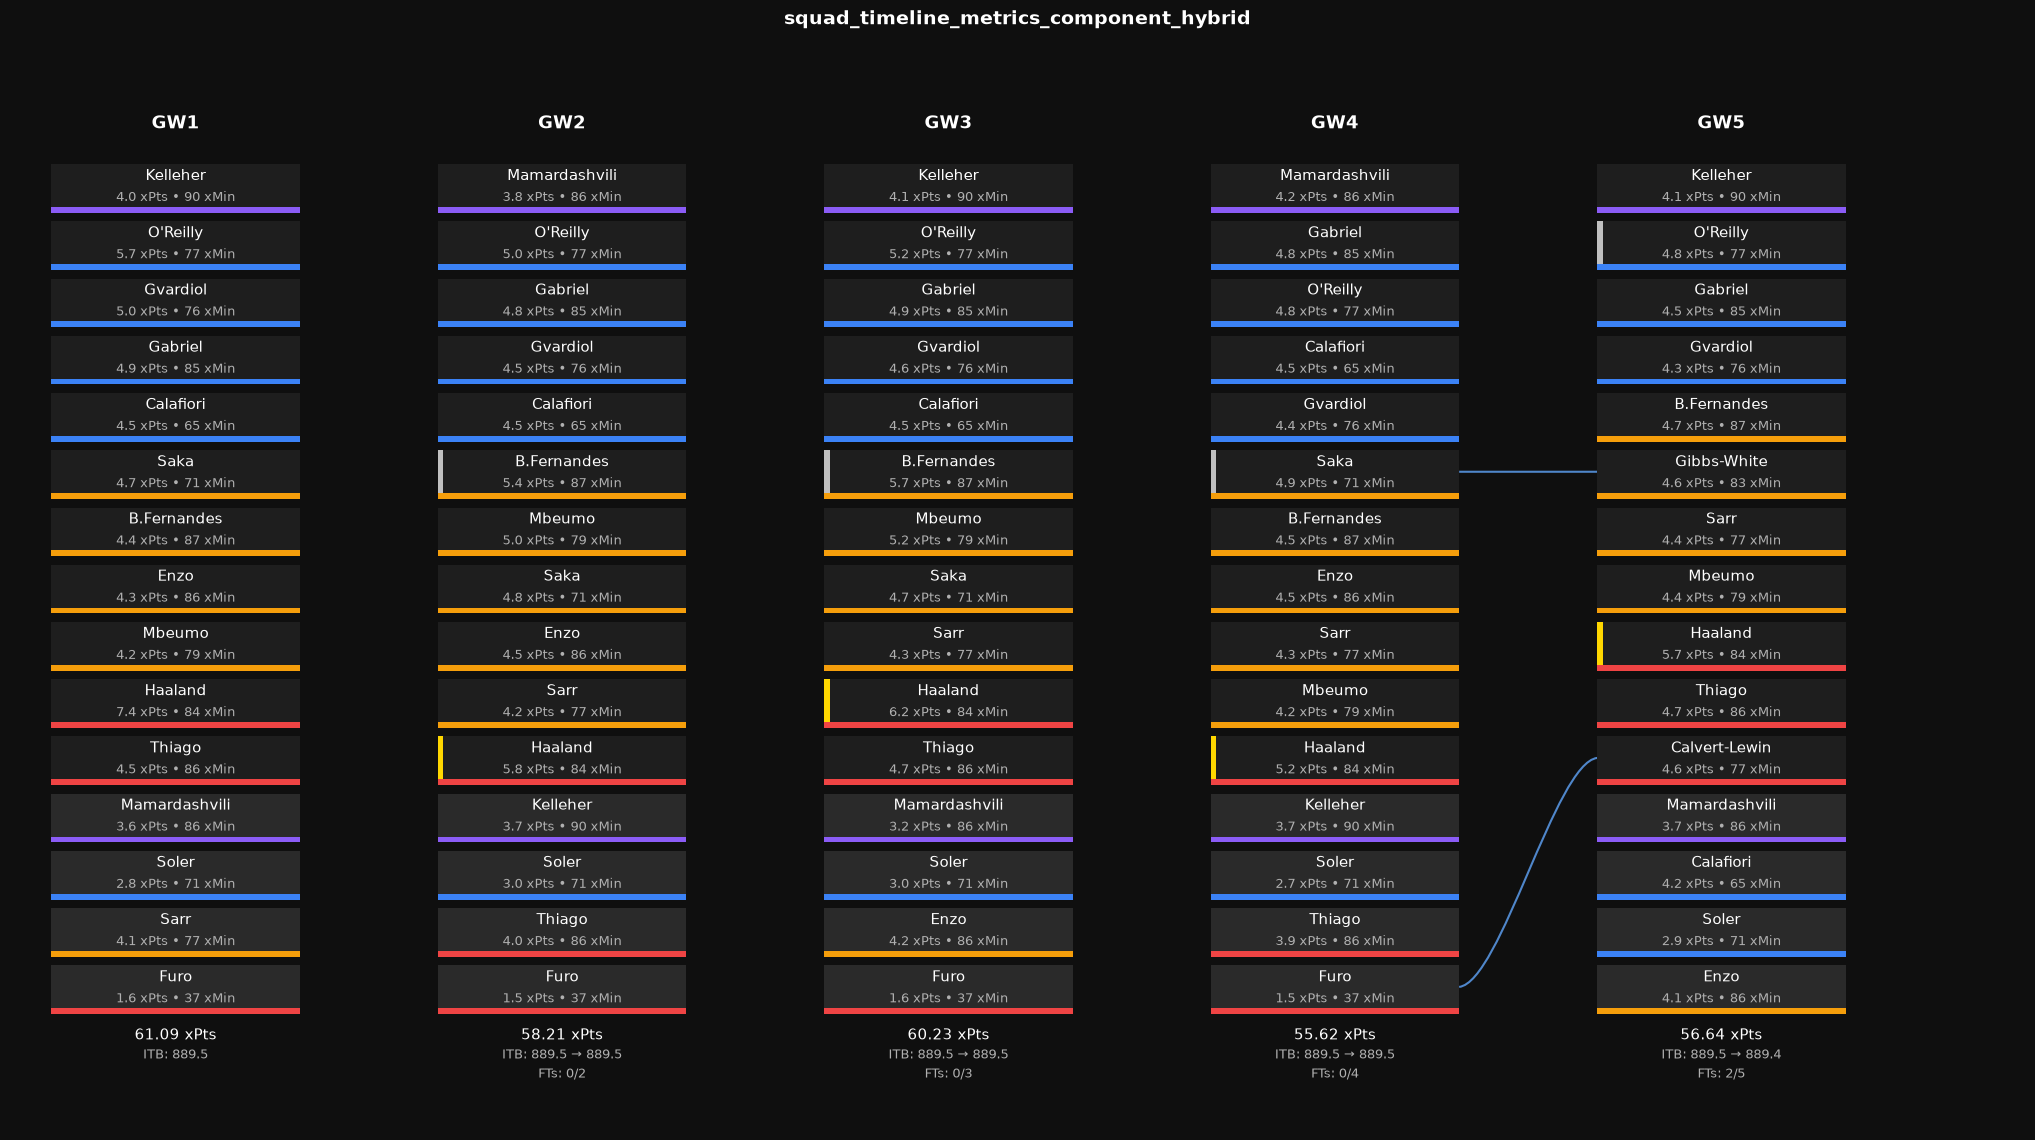
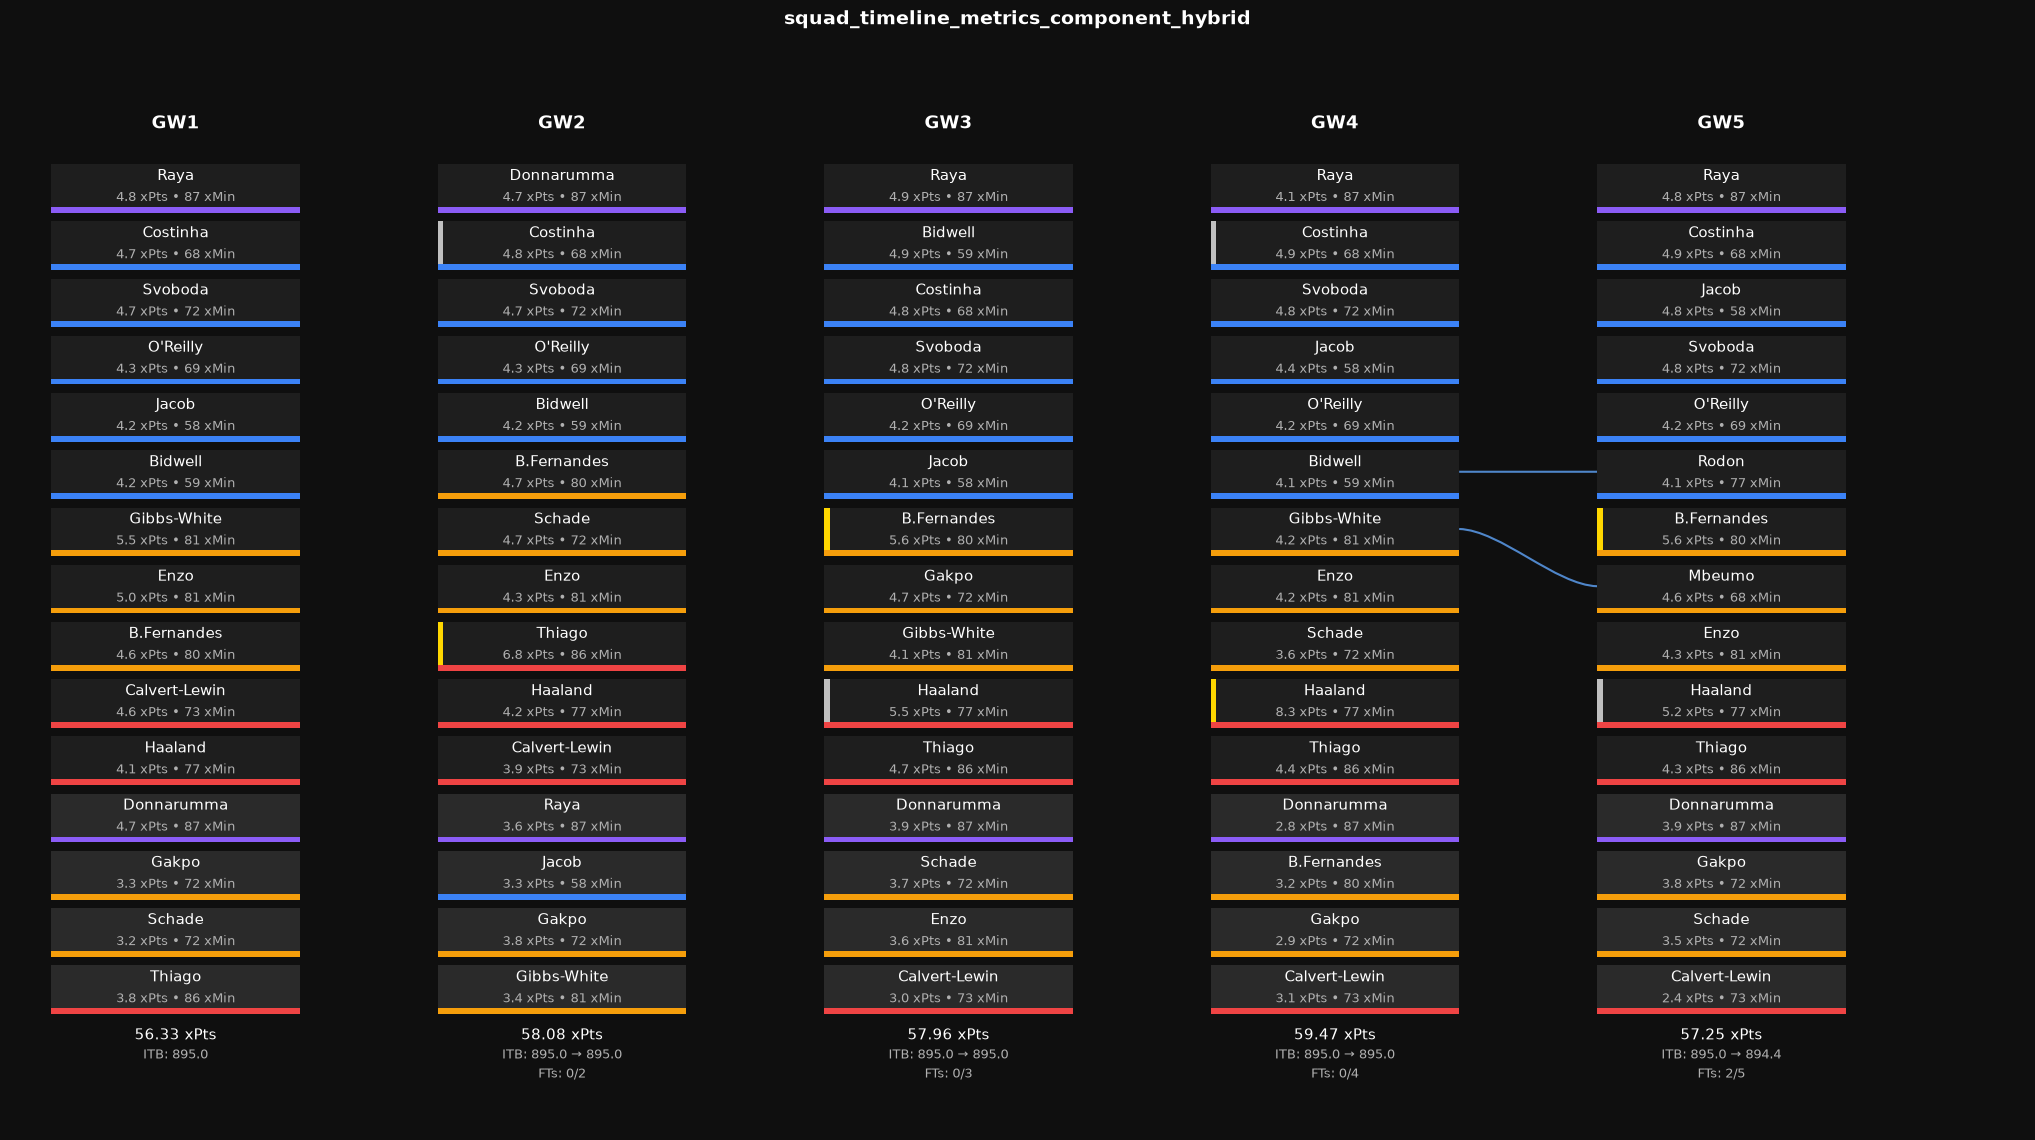
feat: add squad timeline asset variants and handle missing player seed data in builder logic

diff --git a/features/builder.py b/features/builder.py
@@ -373,13 +373,18 @@ def build_features(
             sn = player_row.get("second_name")
             if fn and sn:
                 seed_pid = name_to_seed_id.get((fn, sn))
-        if seed_pid is None:
-            seed_pid = pid
-
-        prior_rates, prior_minutes_if_appearance, prior_appearance_probability, prior_appearances = _compute_player_rates(
-            df_seed_perf,
-            seed_pid,
-        )
+        if seed_pid is not None:
+            prior_rates, prior_minutes_if_appearance, prior_appearance_probability, prior_appearances = _compute_player_rates(
+                df_seed_perf,
+                seed_pid,
+            )
+        else:
+            prior_rates, prior_minutes_if_appearance, prior_appearance_probability, prior_appearances = (
+                {col: 0.0 for col in RATE_COLS},
+                0.0,
+                0.0,
+                0,
+            )
         has_player_prior = (
             prior_minutes_if_appearance > 0
             and prior_appearances >= MIN_PRIOR_APPEARANCES
